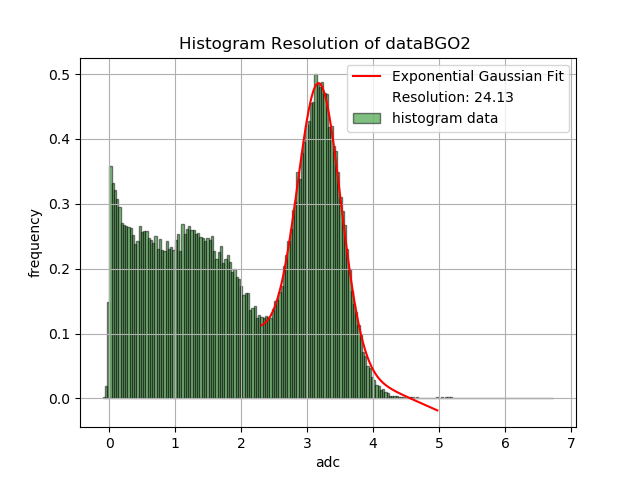
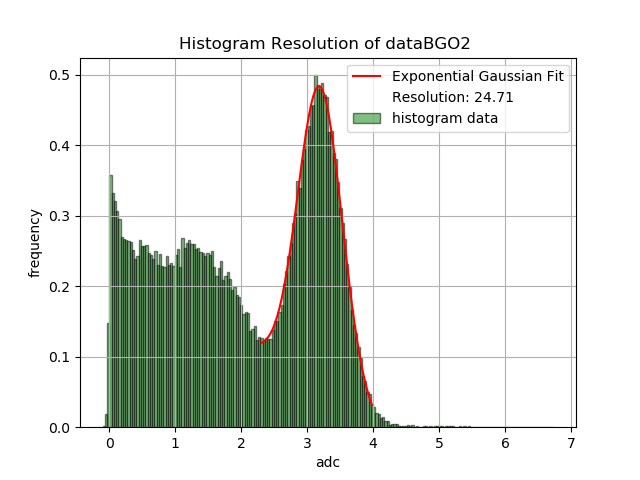
correction2

diff --git a/BGORESOLUTION/resolutionmethod2.py b/BGORESOLUTION/resolutionmethod2.py
@@ -30,10 +30,10 @@ for i in range(len(filenames)):
         b=4.7
     if i==1:
         a=2.29
-        b=5
+        b=4
     if i==2:
         a=3.5
-        b=8
+        b=6
     if i==3:
         a=2.28
         b=2.7
